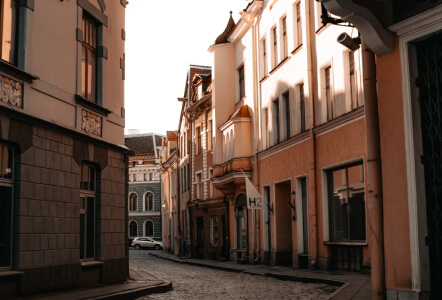
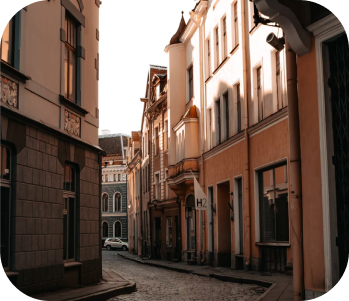
исправил поведение картинок

diff --git a/src/components/stories-card/stories-card.scss b/src/components/stories-card/stories-card.scss
@@ -44,8 +44,13 @@
     grid-area: 1/-1;
     width: 100%;
     height: 100%;
+    max-height: 567px;
     object-fit: cover;
     transition: all 0.3s ease;
+
+    @media screen and (max-width: 767px) {
+      max-height: 455px;
+    }
   }
 
   &__content {
@@ -55,9 +60,11 @@
     display: flex;
     flex-direction: column;
     justify-content: space-between;
+    max-height: 567px;
     padding: 3.813em 3.75em 3.25em 2.5em;
 
     @media screen and (max-width: 767px) {
+      max-height: 455px;
       padding: 1.875em 1.563em 1.438em 0.625em;
     }
   }

diff --git a/src/components/tours/tours.scss b/src/components/tours/tours.scss
@@ -183,6 +183,14 @@
     height: 100%;
     object-fit: cover;
     transition: all 0.3s ease;
+
+    @media screen and (max-width: 1024px) {
+      max-height: 530px;
+    }
+
+    @media screen and (max-width: 991px) {
+      max-height: 318px;
+    }
   }
 
   &__card-content {
@@ -198,7 +206,7 @@
       max-height: 530px;
     }
 
-    @media screen and (max-width: 767px) {
+    @media screen and (max-width: 991px) {
       max-height: 318px;
       padding: 1.563em 1.563em 1.125em 0.313em;
     }
